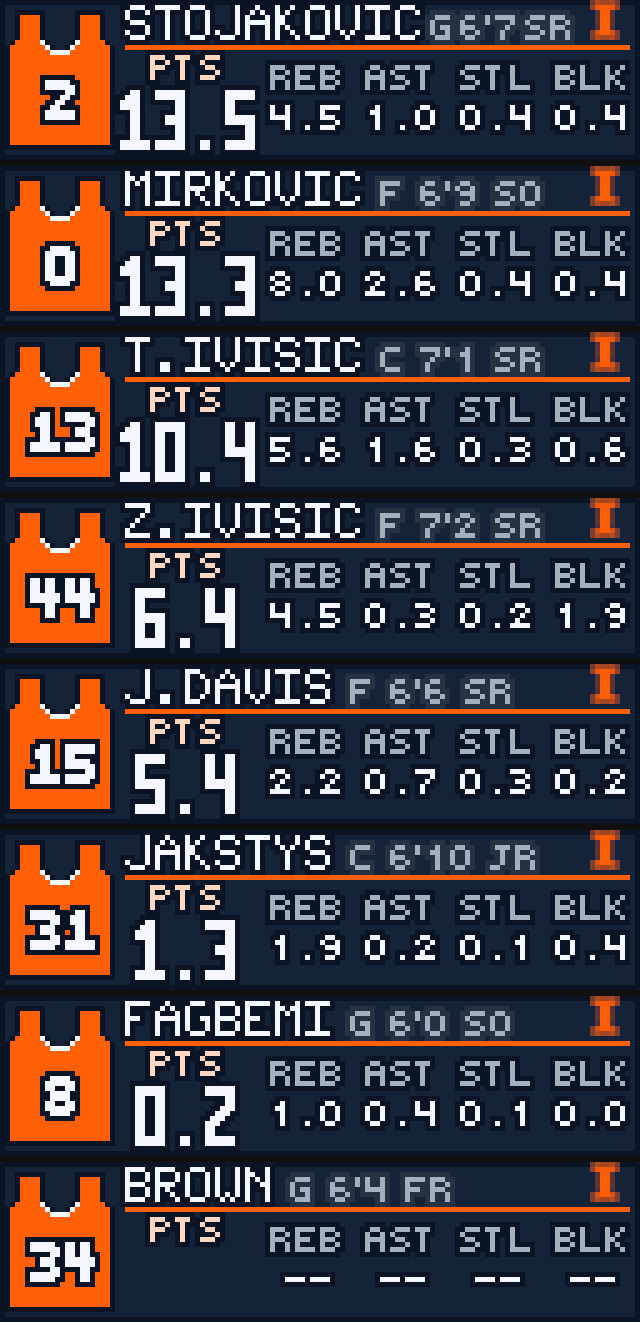
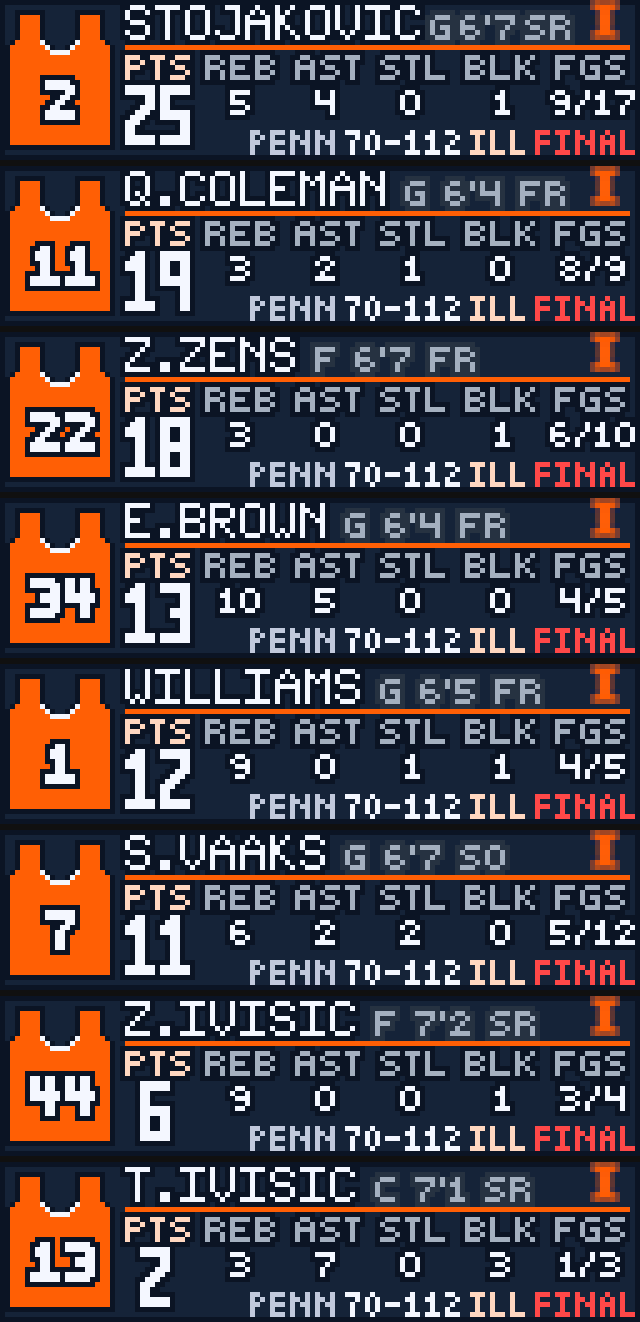
Update college-basketball-player-tracker (#1036)

diff --git a/apps/college-basketball-player-tracker/README.md b/apps/college-basketball-player-tracker/README.md
@@ -4,17 +4,17 @@ Eight 128×32 player cards for a selected men's Division I basketball team. Duri
 
 ## Display
 
-School-colored backgrounds, editable jerseys with centered numbers and white collars, team logos, and a prominent points column. Position, height and class use the larger 4x5 font; the height mark is stacked vertically with one-pixel gaps to the digits. Player surnames take priority over optional biography details. Initials distinguish duplicate surnames, and exceptionally long names shorten with a final period rather than overflowing.
+School-colored backgrounds, editable jerseys with centered numbers and white collars, team logos, and a prominent points column. Position, height and class use the larger 4x5 font. A first initial is added only if it fits in the existing font without reducing the gaps or removing bio details. Initials still distinguish duplicate surnames.
 
-Live scores sit beneath REB/AST/STL/BLK. Status labels include 1H, 2H, HT, OT, OT2 and subsequent overtime numbers. Regulation finals show FINAL; overtime finals show FINAL OT, FINAL OT2, etc., with a visible separator. The halftime scoreboard sits four pixels before HT. Opponent rankings are not displayed or fetched.
+Game scores sit below the supporting stats. Status labels include 1H, 2H, HT, OT, OT2 and subsequent overtime numbers. Regulation finals show FINAL; overtime finals show FINAL OT, FINAL OT2, etc., with a visible separator. The halftime scoreboard sits four pixels before HT. Opponent rankings are not displayed or fetched.
 
-PTS, REB, AST, STL and BLK use 4x5 labels in every display state. Each number is centered beneath its label. Supporting season averages are drawn once as complete outlined values, preserving the decimal gaps; wider values use the smaller fallback font. Points retain their original font ladder and full-size decimal.
+Each stat is centered beneath its label. LIVE and FINAL add FGS on the right, with made/attempted field goals (for example, `9/17`) from the existing box score. Zero attempts show `0/0`; unavailable values show `--`. Season-average cards retain their five stat columns and decimal formatting.
 
-Long scoreboards stay on one line without shortening team codes. The PTS label and number move left only when the measured score row needs room. If the jersey boundary prevents a full-height horizontal fit, a compact number sits above the footer with a blank row separating it from both its label and the scoreboard. Ordinary score rows keep their approved positions.
+Long scoreboards stay on one line without shortening team codes. The points column stays in place; when a long footer needs the space below it, the points value uses a compact font above the footer.
 
 ## Illustrative previews
 
-These are layout examples with demonstration statistics, not current game results.
+These are layout replays using archived or simulated game states, not current game results.
 
 ![Season averages](preview/stojakovic-average.png)
 ![Live](preview/stojakovic-live.png)
@@ -27,7 +27,7 @@ The generated eight-page catalog poster is [preview/preview.png](preview/preview
 
 - **Team:** Select from the app's 365-school directory. No API key is needed.
 
-The five-minute refresh interval is unchanged. Game discovery uses the selected team's ESPN schedule, not the oversized national NCAA scoreboard. Schedule and game-summary reads are cached for five minutes; roster and season-average reads remain cached for six hours. Schedule and roster reads can try the alternate ESPN hostname. The summary uses the schedule-selected host once to keep the cold-cache request budget bounded. These are the same ESPN source, not independent providers. HTML season-average reads do not have API-host fallback.
+The five-minute refresh interval is unchanged. Game discovery uses the selected team's ESPN schedule, not the national scoreboard. Schedule and summary reads are cached for five minutes; roster and season-average reads are cached for six hours. Season averages use ESPN's structured full-season team feed first, with the ESPN team stats webpage as a fallback. Both are ESPN sources; this does not add hosting or protect against a complete ESPN outage.
 
 Roster members without posted season-average rows show `--`. A roster with fewer than eight eligible players shows LINEUP NOT POSTED on unfilled cards. Source failures and unposted boxscores have explicit fallback screens. Automatic live coverage depends on ESPN listing the game and its boxscore; this app does not add a separate exhibition-stat feed.
 
@@ -62,17 +62,13 @@ order; averages use the top eight season scorers. With fewer than eight eligible
 game participants, an unfilled page says LINEUP NOT POSTED rather than substituting
 a preview or averages.
 
-Only the season player-stat array is extracted from ESPN's web page. JSON syntax
-is validated before decoding so a damaged embedded table cannot crash the app.
-Missing individual averages display `--`, not zero. Schedule and summary caches
-are five minutes; roster and average caches remain six hours.
+The structured averages feed is validated for the selected team, season and
+complete stat columns. The HTML fallback validates its embedded stat array
+before decoding. A verified recent team box score can recover the identity
+and jersey of a player missing from the roster, without per-player requests.
+Missing individual averages display `--`, not zero.
 
-Refresh remains 300 seconds. App identity, approved artwork/layouts and public
-author JSW41 are unchanged. No shooting-stat categories or faster-refresh request
-are included in this update. All pages share requests; the tested worst case uses
-eight uncached requests, including mixed-host failures and regular-season fallback.
-
-Verification: 174 regression scenarios / 966 actual Starlark page renders, 26
-calendar checks, both full-app/offline validations, saved-selection/page-wiring
-checks, and Illinois/Florida ESPN replays. The team JSON preflight also passed
-2,250 mutated-input checks. These are test results, not production certification.
+Refresh remains 300 seconds. App identity, artwork and public author JSW41
+are unchanged. The release replay covers all eight cards, source failures,
+roster omissions, live shooting, regulation and overtime finals, and the
+eight-uncached-request ceiling. These are local checks, not production certification.
